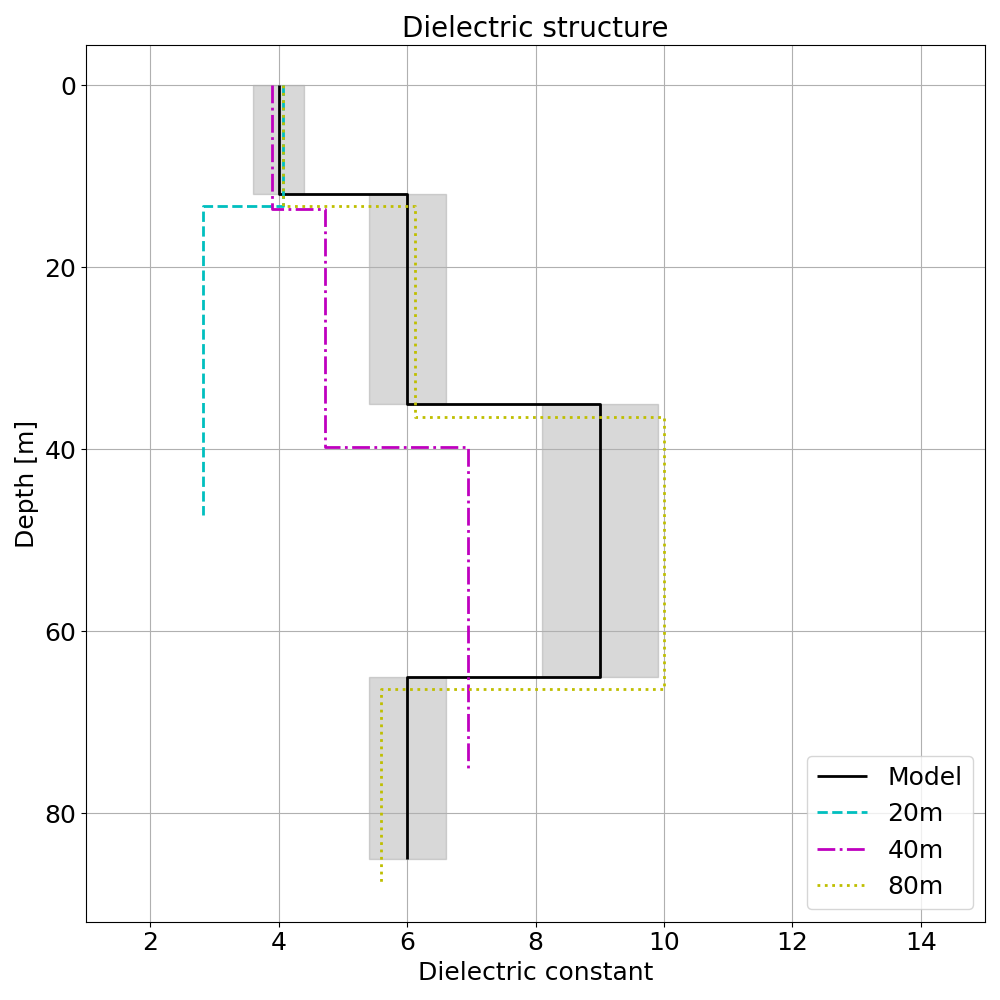
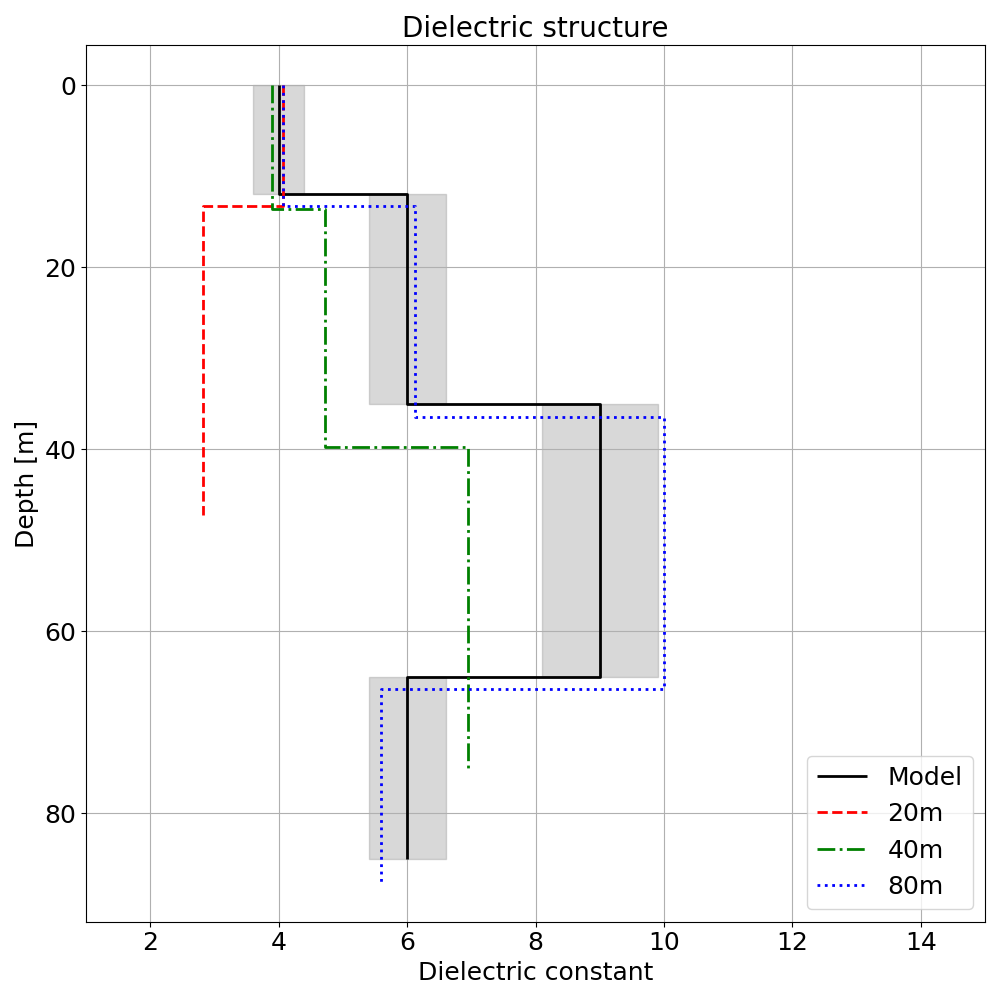
chore: Update color order in plot scripts

Changed region(s): [[0.248, 0.186, 0.31, 0.217], [0.465, 0.682, 0.496, 0.713]]

diff --git a/tools/plot_dielectric_structure.py b/tools/plot_dielectric_structure.py
@@ -109,7 +109,7 @@ arrays = [depth_model]
 #* load results
 for i in range(results_num):
     arrays.append(run_estimation(path['results'][i]))
-clors = ['k', 'c', 'm', 'y', 'r', 'g', 'b']
+clors = ['k', 'r', 'g', 'b', 'c', 'm', 'y']
 line_styles = ['-', '--', '-.', ':', '--', '-.', ':']
 labels = ['Model']
 for i in range(results_num):

diff --git a/tools/plot_velocity_structure.py b/tools/plot_velocity_structure.py
@@ -88,7 +88,7 @@ results_num = len(path['results'])
 for i in range(results_num):
     arrays.append(run(path['results'][i]))
 
-clors = ['k', 'c', 'm', 'y', 'r', 'g', 'b']
+clors = ['k', 'r', 'g', 'b', 'c', 'm', 'y']
 line_styles = ['-', '--', '-.', ':']
 labels = ['Model']
 for i in range(results_num):
